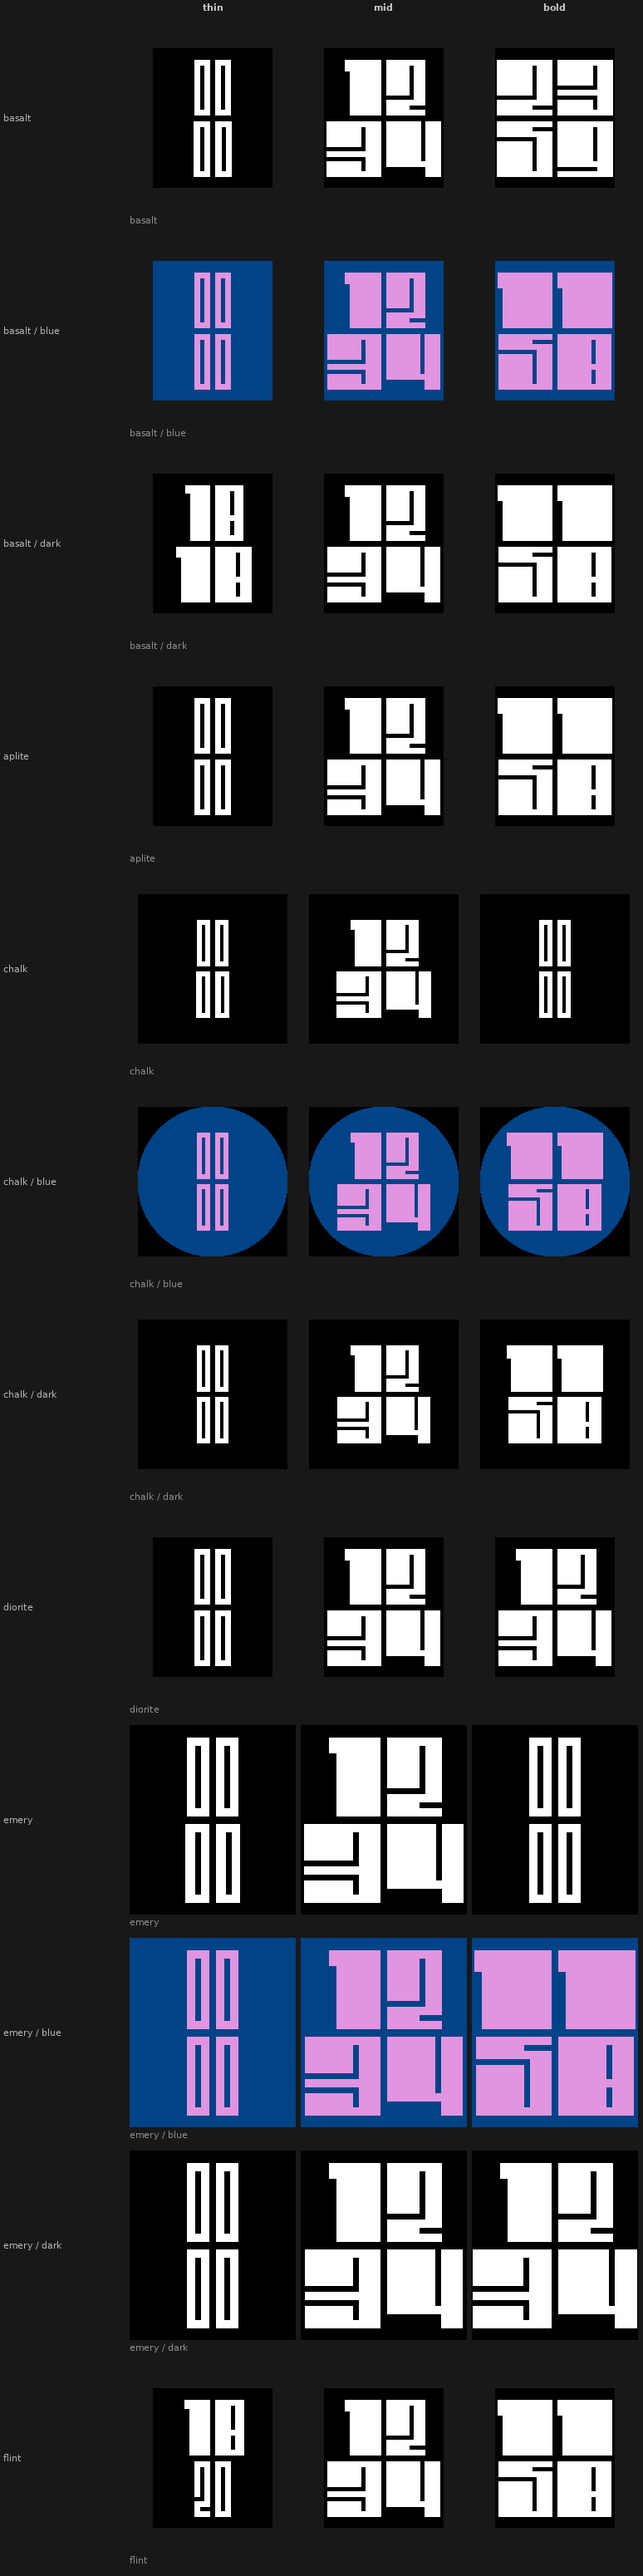
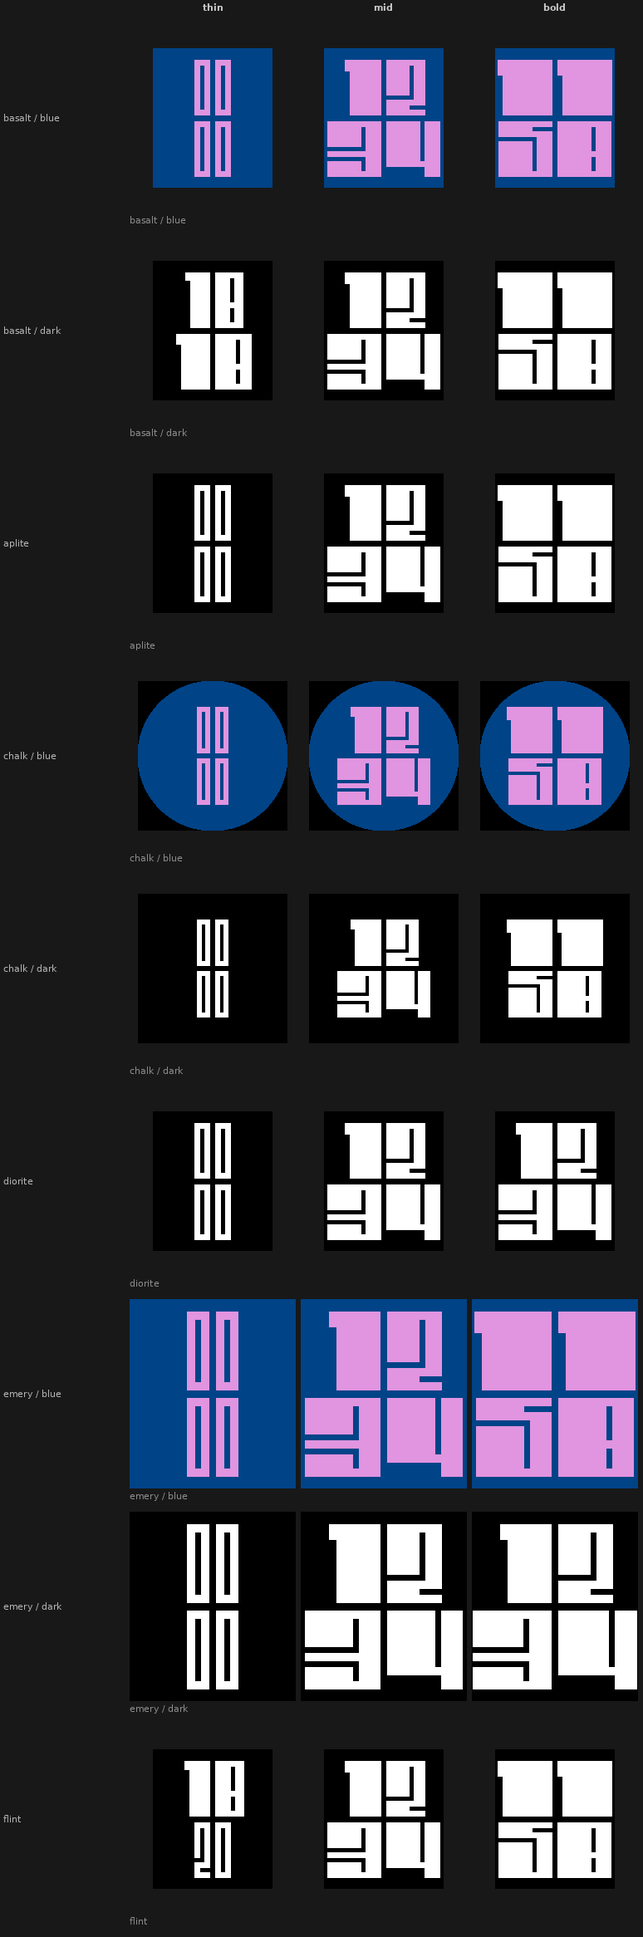
fix(screenshots): clean platform dir before capture, remove stale files
make_screenshots.py now wipes the platform output directory before
each run to avoid mixing old flat files with new variant subdirs.

Remove leftover basalt/chalk/emery flat shots from pre-color_variants era.

diff --git a/tools/screenshots/make_screenshots.py b/tools/screenshots/make_screenshots.py
@@ -145,6 +145,11 @@ def run(platform_shots, app_uuid, pbw_path, out_dir):
 
     for platform, shots in platform_shots.items():
         print(f'\n=== {platform} ===')
+        platform_dir = os.path.join(out_dir, platform)
+        if os.path.exists(platform_dir):
+            import shutil
+            shutil.rmtree(platform_dir)
+
         pebble = None
         try:
             pebble = emu.connect_emulator(platform)
